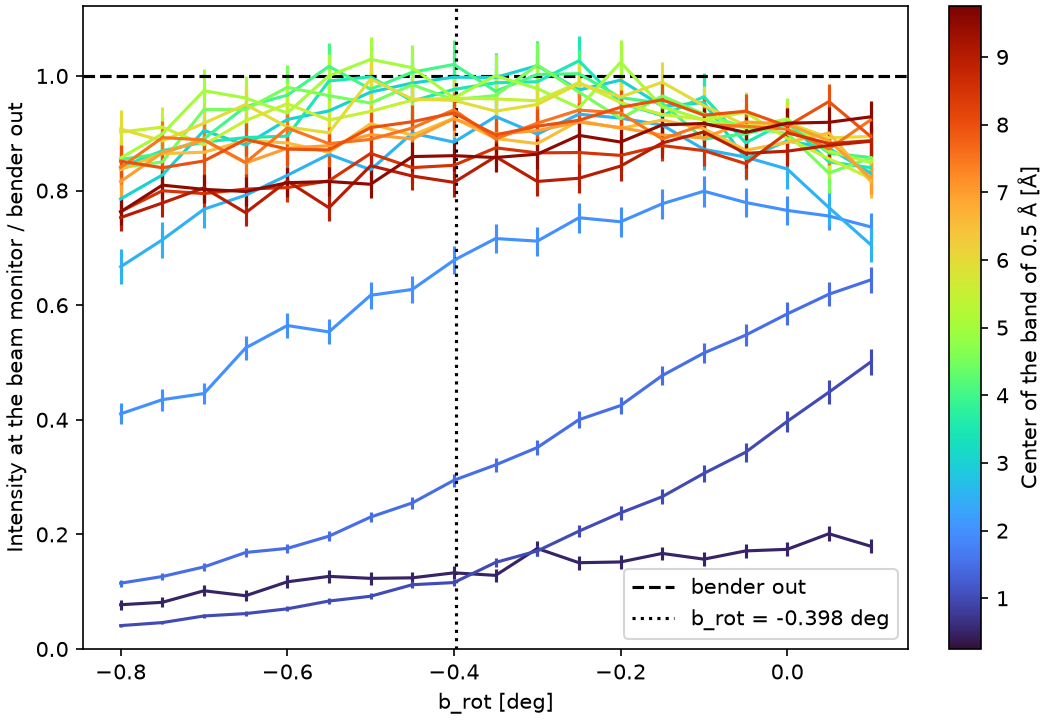
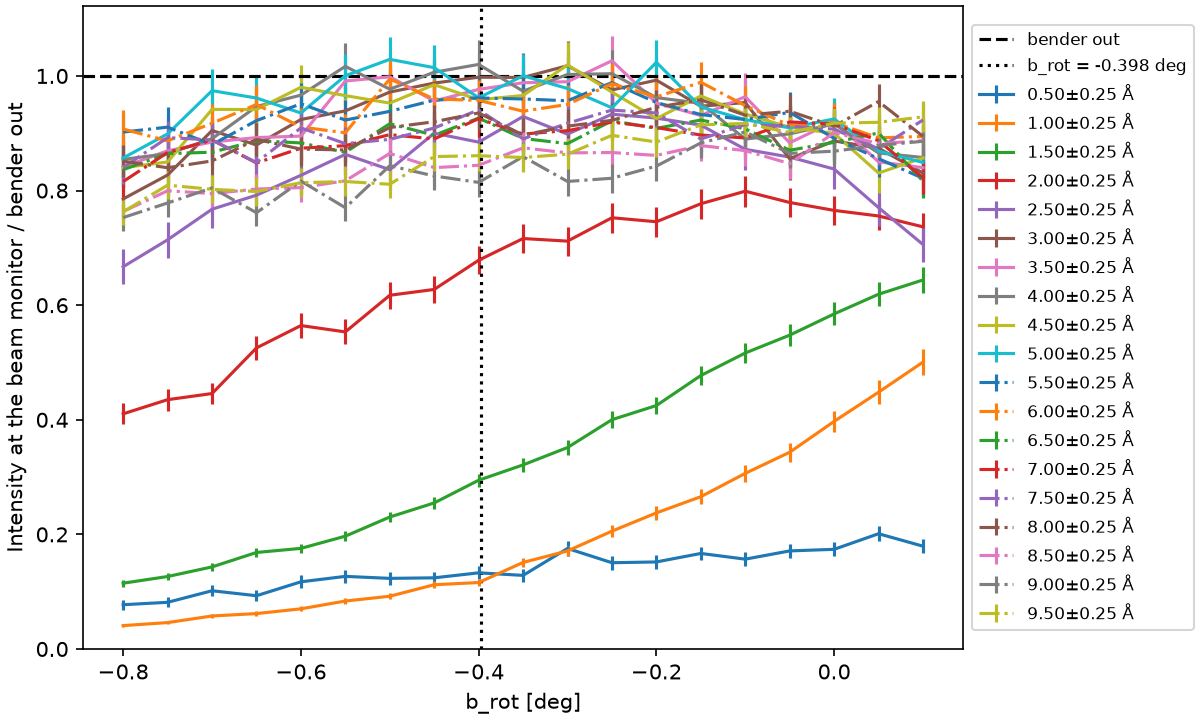
Draw the bender scan in the default colors, with a legend
Each band has a color of matplotlib's default cycle and an entry in the
legend, beside the plot, with its center and half width, in place of a
turbo color by its center and a colorbar. Past the ten colors of the
cycle the bands are dash-dotted.

diff --git a/src/mcdgs/diagnostics/trex_03_bender_scan.py b/src/mcdgs/diagnostics/trex_03_bender_scan.py
@@ -15,8 +15,6 @@ from pathlib import Path
 import h5py
 import matplotlib.pyplot as plt
 import numpy as np
-from matplotlib.cm import ScalarMappable
-from matplotlib.colors import Normalize
 from matplotlib.figure import Figure
 from mcstastox.LoadFile import Data
 from numpy.typing import NDArray
@@ -183,7 +181,9 @@ def plot_bender_scan(scan_file: Path, bender_out_file: Path) -> Figure:
     """Draw the scan of :func:`run_bender_scan`.
 
     Each curve is one wavelength band, divided by the same band without the bender, so the
-    bender-out intensity is 1. Its color is the center of the band, on the colorbar.
+    bender-out intensity is 1. The bands take matplotlib's default colors in turn, solid for
+    the first ten and dash-dotted for the next, and the legend gives the center and half width
+    of each.
 
     Parameters
     ----------
@@ -204,12 +204,17 @@ def plot_bender_scan(scan_file: Path, bender_out_file: Path) -> Figure:
 
     ratio, ratio_error = transmission(intensity, error, reference, reference_error)
 
-    # one color per band, by its center, from the edge of the first band to that of the last
-    norm = Normalize(centers[0] - BAND_WIDTH / 2, centers[-1] + BAND_WIDTH / 2)
-    colors = ScalarMappable(norm=norm, cmap="turbo")
-    fig, ax = plt.subplots(figsize=(7, 4.8), layout="constrained")
+    fig, ax = plt.subplots(figsize=(8, 4.8), layout="constrained")
+    n_colors = 10  # the default color cycle, C0 to C9: past it the colors come again
     for band, center in enumerate(centers):
-        ax.errorbar(angles, ratio[:, band], ratio_error[:, band], color=colors.to_rgba(center))
+        ax.errorbar(
+            angles,
+            ratio[:, band],
+            ratio_error[:, band],
+            color=f"C{band % n_colors}",
+            linestyle="-" if band < n_colors else "-.",
+            label=f"{center:.2f}±{BAND_WIDTH / 2:.2f} Å",
+        )
     ax.axhline(1, color="black", linestyle="--", label="bender out")
     ax.axvline(
         BENDER_ROTATION, color="black", linestyle=":", label=f"b_rot = {BENDER_ROTATION:.3f} deg"
@@ -217,9 +222,7 @@ def plot_bender_scan(scan_file: Path, bender_out_file: Path) -> Figure:
     ax.set_ylim(bottom=0)
     ax.set_xlabel("b_rot [deg]")
     ax.set_ylabel("Intensity at the beam monitor / bender out")
-    ax.legend(loc="lower right")
-    colorbar = fig.colorbar(colors, ax=ax, ticks=centers[1::2])
-    colorbar.set_label(f"Center of the band of {BAND_WIDTH} Å [Å]")
+    ax.legend(loc="center left", bbox_to_anchor=(1, 0.5), fontsize="small")  # beside the plot
     return fig
 
 

diff --git a/docs/instruments/trex/bender-scan.md b/docs/instruments/trex/bender-scan.md
@@ -19,7 +19,8 @@ relative errors of the two add in quadrature.
 
 ![Intensity at the beam monitor against the rotation of the bender, per wavelength band, over the intensity with the bender out](figures/bender_scan.png)
 
-Each curve is one band, its color the center of the band on the colorbar. The dashed line at 1 is
+Each curve is one band, named in the legend by its center and half width. The first ten bands
+are solid lines and the next ones dash-dotted, in the same colors again. The dashed line at 1 is
 the bender-out intensity, and the dotted line the nominal rotation, −0.398 deg.
 
 ## Transmission at the nominal rotation
